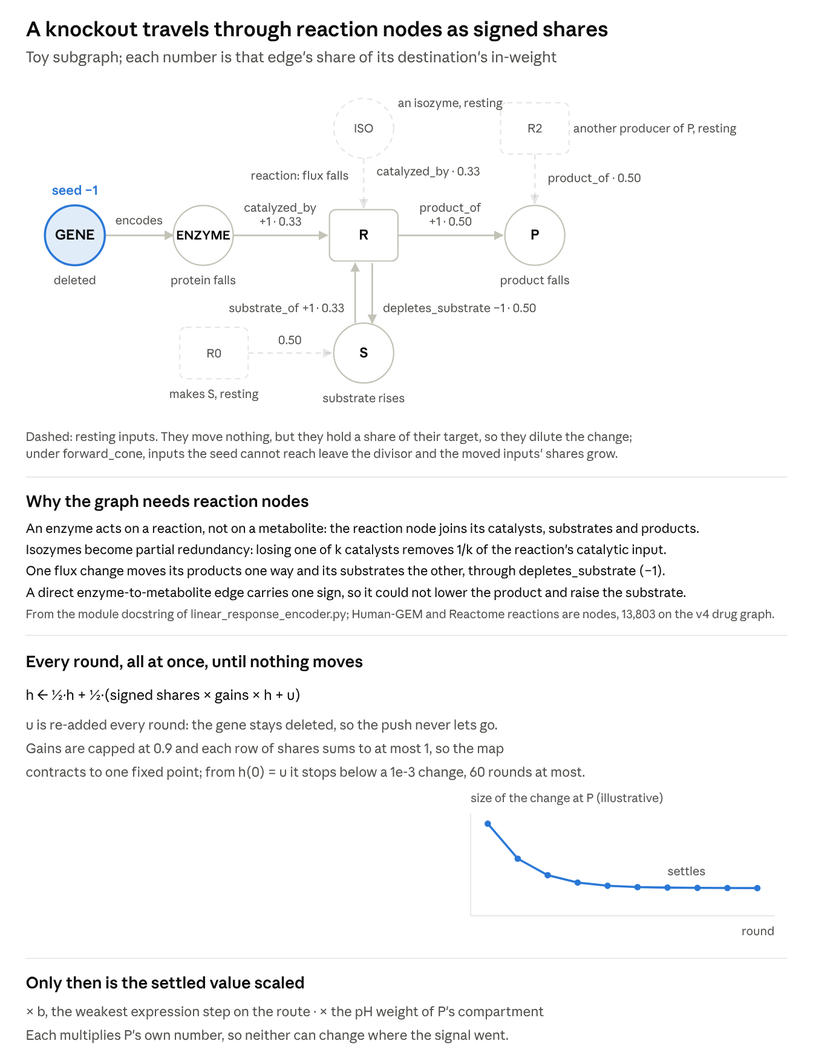
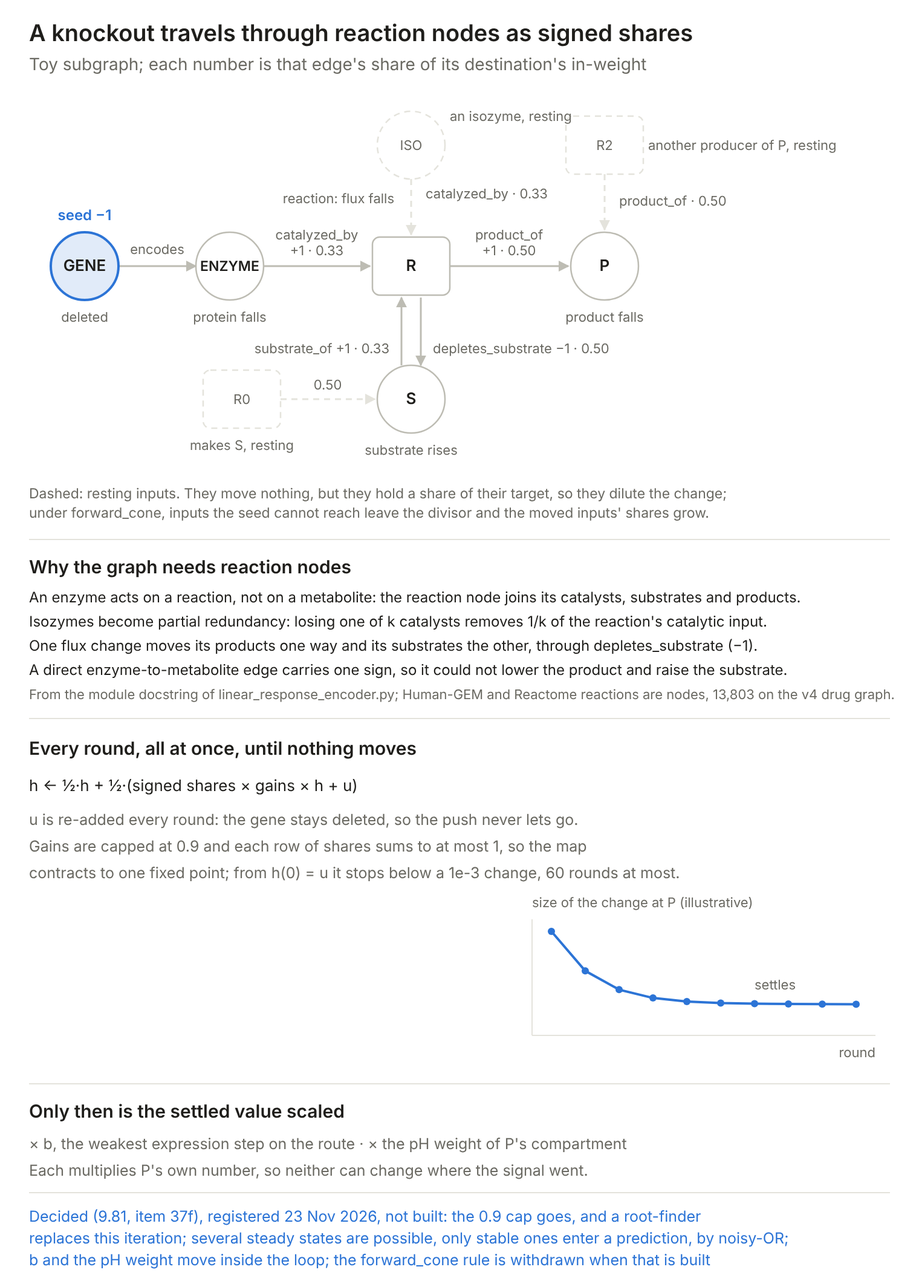
Refresh the study sheet's Markdown copy from revision 169, with all 25 diagrams re-rendered
The owner, 24 November 2026: "I still see damped fixed point in the figure on main remote". The copy on
main was last exported at revision 51 of 9 November, so every figure predated the decisions since,
including item 40's exposure ramp in the as-decided pipeline.

docs/study_sheet.md is now the doc's own Markdown export at revision 169, with each of the 25 widget
placeholders replaced by its PNG and caption. Each PNG is rendered from that widget's source as the doc
holds it (read through the docs connector, checked byte for byte against the tool results), with a light
palette standing in for the doc's theme. Three diagrams are new to the copy (05b encoder as decided,
12b effective parameters, 13b propagation channels as decided); two are renamed to say they are the
as-built versions (05_encoder_as_built, 13_propagation_channels_as_built). The as-built pipeline keeps
"Damped update to a fixed point" by design: it shows the code on main.

One change to the export's text, as the earlier copy made: the export writes the Cheng and Prusoff 1973
DOI inside angle brackets with raw parentheses, which the relative-link test reads as a dangling link,
so its parentheses are percent-encoded.

The registry's description of the copy said "19 diagrams"; it now says 25, and the README follows.

Claude-Session: https://claude.ai/code/session_01RNHwqTkjjENH7yo98idnBU

diff --git a/docs/study_sheet.md b/docs/study_sheet.md
@@ -1,12 +1,12 @@
 # Perturbation-symptom modules: study sheet
 
-The owner's study sheet, exported from Claude Docs (https://claude.ai/artifact/RzVm4LjdeHmzzdSyzJ5j65). The doc is the version that is kept current; this file is its Markdown copy, refreshed in place by exporting it again (last from revision 51, 9 November 2026; on 20 November 2026 the three lines naming the module-names page were changed in place to its path under `docs/generated/`, as revision 53 of the doc changed them). The text is the doc's own Markdown export; the 22 diagrams, which that export leaves out, are rendered as PNG images in [`study_sheet_figures/`](study_sheet_figures/), each followed by its caption. From 27 October to 7 November 2026 the copy was a dated record, an export of revision 36 with an HTML page and 12 figures, filed under the date of that export; the owner asked on 7 November 2026 that the date be removed from the file names, and git holds that version.
+The owner's study sheet, exported from Claude Docs (https://claude.ai/artifact/RzVm4LjdeHmzzdSyzJ5j65). The doc is the version that is kept current; this file is its Markdown copy, refreshed in place by exporting it again (last from revision 169, 24 November 2026). The text is the doc's own Markdown export; the 25 diagrams, which that export leaves out, are rendered as PNG images in [`study_sheet_figures/`](study_sheet_figures/), each followed by its caption. Each image is rendered from that diagram's own source in the doc, with a light palette that stands in for the doc's theme, so its colours can differ slightly from the doc while its text and shapes are the doc's. From 27 October to 7 November 2026 the copy was a dated record, an export of revision 36 with an HTML page and 12 figures, filed under the date of that export; the owner asked on 7 November 2026 that the date be removed from the file names, and git holds that version.
 
 Oct 25, 2026 · @Bryan Nova
 
 ## Start here
 
-The project propagates gene and drug perturbations through a signed physiology graph (about 50,000 nodes and 270,000 edges) to a fixed point, then scores the predicted symptoms against public labels; its purpose is the basis for a data-defined psychiatric nosology. On `main` at `f54e3e9` (25 October 2026) there are no open pull requests, work is pushed straight to `main`, one model is registered and **80 decisions wait on you** (`docs/status.md`).
+The project propagates gene and drug perturbations through a signed physiology graph (about 50,000 nodes and 270,000 edges) to a steady state (as built, the fixed point of a damped linear operator; as decided in amendment item 37f, the stable steady states of a saturating update), then scores the predicted symptoms against public labels; its purpose is the basis for a data-defined psychiatric nosology. Work is pushed straight to `main` with no pull requests, and one model is tested. What is current, among it the registered rules and the decisions waiting on you, is in `docs/status.md`.
 
 Of those 80, only a few gate any work. Rule on these first:
 
@@ -19,17 +19,17 @@ The cheapest experiment nobody has run is **R0**, the rate-invariance check: min
 
 ## The pipeline
 
-A perturbation enters as a signed seed, settles through one damped linear operator and is read out per symptom; only stage 4 holds learned propagation, and the labels meet the predictions only at scoring.
+A perturbation enters as a signed seed, settles, as built, through one damped linear operator (as decided in amendment item 37f, registered 23 November 2026 and not built, through a root-finder for the stable steady states of a saturating update) and is read out per symptom; only stage 4 holds learned propagation, and the labels meet the predictions only at scoring.
 
 ![registered pipeline, as built · 7 stages · from registered_rules.json and the rebuild chain; v5 graph of 5 Nov 2026, before decisions 9.112 and 9.117](study_sheet_figures/01_pipeline.png)
 
 *registered pipeline, as built · 7 stages · from registered_rules.json and the rebuild chain; v5 graph of 5 Nov 2026, before decisions 9.112 and 9.117*
 
-![registered pipeline, as decided · decisions 9.117 and 9.121 ruled 8 and 9 Nov 2026, not built: curated targets where ChEMBL has none, and the curated label route of 9.117 group (ii)](study_sheet_figures/01b_pipeline_as_decided.png)
+![registered pipeline, as decided · decisions 9.117 and 9.121 ruled 8 Nov 2026 (targets curated from DrugCentral, GtoPdb, labels and reviews where ChEMBL has none) and the encoder of decision 9.81 and amendment items 37e, 37f and 37g, registered 23 Nov 2026; none of it built](study_sheet_figures/01b_pipeline_as_decided.png)
 
-*registered pipeline, as decided · decisions 9.117 and 9.121 ruled 8 and 9 Nov 2026, not built: curated targets where ChEMBL has none, and the curated label route of 9.117 group (ii)*
+*registered pipeline, as decided · decisions 9.117 and 9.121 ruled 8 Nov 2026 (targets curated from DrugCentral, GtoPdb, labels and reviews where ChEMBL has none) and the encoder of decision 9.81 and amendment items 37e, 37f and 37g, registered 23 Nov 2026; none of it built*
 
-The nonlinearities switched on by default (bottleneck, pH weight) sit after the loop; the in-loop aggregators and edge gates are off, so none of them can change the route a signal takes, only its size at the end.
+The nonlinearities switched on by default (bottleneck, pH weight) sit after the loop; the in-loop aggregators and edge gates are off, so none of them can change the route a signal takes, only its size at the end. That describes the built encoder. As decided (item 37f, not built), saturation, the bottleneck and the pH ceiling sit inside the loop.
 
 ### How the model is fit and tested
 
@@ -49,17 +49,21 @@ The lockbox is touched once, after every seed and control has run; until the own
 
 *graph schema, as decided · solid: the v5 graph of 5 Nov 2026; dashed: decision 9.112, ruled 4 Nov 2026 and not built*
 
-A gene perturbation seeds its gene node (−1 for a loss or untyped allele, +1 for a hypermorph); a drug seeds its own node at +1 and reaches its targets through signed `targets` edges, which skip the divisor.
+A gene perturbation seeds its gene node (−1 for a loss or untyped allele, +1 for a hypermorph); a drug seeds its own node at +1 and reaches its targets through signed `targets` edges, which skip the divisor. That is as built. As decided in item 37 (not built), a drug's seed is split across its targets by occupancy (37h), and a drug the body makes seeds on the compound it already is (37m).
 
 ## Architecture
 
-The model is four learned transforms around one linear loop: input weights and relation gains feed the fixed point, a gated expansion reads it out and a noisy-OR head turns it into symptom probabilities. Everything that is not linear acts after the loop or in the head.
+As built, the model is four learned transforms around one linear loop: input weights and relation gains feed the fixed point, a gated expansion reads it out and a noisy-OR head turns it into symptom probabilities. Everything that is not linear acts after the loop or in the head. As decided (decision 9.81 and amendment items 37e, 37f and 37g, registered 23 November 2026, not built): soft saturation, a floor at −1, a headroom per node, the bottleneck and the pH ceiling move inside the loop; the 0.9 gain clamp goes; and a root-finder replaces the damped iteration, keeps only the stable steady states and combines them by noisy-OR. How several steady states are searched for is decision 9.138, open.
 
-![mechanistic_pathway_learning/models/linear_response_encoder.py on main at f54e3e9](study_sheet_figures/05_encoder.png)
+![encoder, as built · linear_response_encoder.py and forward_cone_divisor.py on main at e6ea5f5; before decision 9.81 and amendment item 37f](study_sheet_figures/05_encoder_as_built.png)
 
-*mechanistic_pathway_learning/models/linear_response_encoder.py on main at f54e3e9*
+*encoder, as built · linear_response_encoder.py and forward_cone_divisor.py on main at e6ea5f5; before decision 9.81 and amendment item 37f*
 
-Key: B perturbations, P seeds per perturbation, N nodes, R relations, Q cell classes, C propagation channels (Q × channels per class), D state channels, F node feature columns, M pathway modules, S symptoms. Under `forward_cone` each seed is propagated as its own column with its own divisor; that is exact only because everything inside the loop is linear in the input.
+![encoder, as decided · decision 9.81 and amendment items 37e, 37f and 37g, registered 23 Nov 2026, not built; the steady-state search is decision 9.138, open](study_sheet_figures/05b_encoder_as_decided.png)
+
+*encoder, as decided · decision 9.81 and amendment items 37e, 37f and 37g, registered 23 Nov 2026, not built; the steady-state search is decision 9.138, open*
+
+Key: B perturbations, P seeds per perturbation, N nodes, R relations, Q cell classes, C propagation channels (Q × channels per class), D state channels, F node feature columns, M pathway modules, S symptoms. Under `forward_cone` each seed is propagated as its own column with its own divisor; that is exact only because everything inside the loop is linear in the input. That holds as built. Under item 37f (not built) saturation sits inside the loop, and the forward\_cone rule is withdrawn in the commit that builds the root-finder.
 
 ![models/noisy_or_pathway_module_model.py and configs/registered_rules.json on main at f54e3e9](study_sheet_figures/06_noisy_or_head.png)
 
@@ -81,13 +85,13 @@ Neither arm can change the confirmatory verdict: the message-passing reading is 
 
 ### How the propagation works
 
-The block diagram above names the transforms; this one shows what they do to a signal. A knockout enters at one node, and every edge passes a signed share of its source to its target, over and over, until the whole field stops moving.
+The block diagram above names the transforms; this one shows what they do to a signal. A knockout enters at one node, and every edge passes a signed share of its source to its target, over and over, until the whole field stops moving. This is the built encoder; what decision 9.81 and item 37f change is at the foot of the diagram.
 
 ![linear_response_encoder.py and forward_cone_divisor.py on main; the toy graph and the convergence curve are illustrative, not measured](study_sheet_figures/08_propagation.png)
 
 *linear_response_encoder.py and forward_cone_divisor.py on main; the toy graph and the convergence curve are illustrative, not measured*
 
-The resting input is the part worth dwelling on. Under the old `total_in_degree` divisor it still took its share, so an input that never moves diluted the one that did. `forward_cone` counts only the edges the seed can reach, which is decision 9.16 and what PR #8 landed on 24 October.
+The resting input is the part worth dwelling on. Under the old `total_in_degree` divisor it still took its share, so an input that never moves diluted the one that did. `forward_cone` counts only the edges the seed can reach, which is decision 9.16 and what PR #8 landed on 22 October.
 
 ### How the modules work
 
@@ -133,9 +137,15 @@ Counting the defaults makes the model's shape plain: the physiology is almost pa
 
 Two things follow. The operator's 476 gains (28 relations × 17 channels) are each shared by every edge of their relation, which is the "one global ratio" problem of the adherence review: one elasticity per relation cannot raise one metabolite and lower another through the same relation pair. And the module supports are the only per-node parameters in the model, which sits oddly beside the design rule that parameters are "never per node, since a per-node parameter is memorisation that cannot transfer to a held-out gene". The held-out split is over perturbations rather than nodes, so a node's gate is still trained by every other perturbation that reaches it; I have not found a document that works that through, so treat it as a question to put rather than a fault to report.
 
+![effective parameters, as built with the decided changes in its key · counted from the code on main at e170c31f and the v5 graph of 5 Nov 2026; no fitted model; methods from the Fable pass of 17 Nov 2026](study_sheet_figures/12b_effective_parameters.png)
+
+*effective parameters, as built with the decided changes in its key · counted from the code on main at e170c31f and the v5 graph of 5 Nov 2026; no fitted model; methods from the Fable pass of 17 Nov 2026*
+
+The labels reach the encoder only through the module activations, so whatever the parameter values, the predictions can move in at most 19,927 independent directions of the 405,908 nominal parameters. The two counts a fit would give, the open gates and the learning coefficient, wait on a trained run, and they answer a different question from the bounds. The nominal count predates the reach rule switched on 24 November 2026 (decision 9.150, amendment item 39), which holds at 0 the supports of nodes fewer than two training seeds can reach (8 × 8,791 on the v5 training rows of fold 0); the bound of 19,927 does not depend on it, and the nominal count is recounted at the next measurement.
+
 ### What each quantity means
 
-Read top to bottom, this is the diagrams' data flow. Shapes use the key above; "arbitrary units" means the scale is set by the input magnitude and the learned weights, so only sign and ratios carry meaning.
+Read top to bottom, this is the diagrams' data flow. Shapes use the key above; "arbitrary units" means the scale is set by the input magnitude and the learned weights, so only sign and ratios carry meaning. The table describes the built encoder. Under item 37f (not built) the gains lose their 0.9 cap, and b and the pH weight act inside the loop.
 
 | Quantity | Meaning | In biological terms | Range or units |
 | --- | --- | --- | --- |
@@ -176,11 +186,11 @@ Each row gives the formula, what its symbols mean and the file on `main` that de
 
 | Quantity | Formula | Symbols | Defined in |
 | --- | --- | --- | --- |
-| Fixed point | h ← (1−d)·h + d·(Σ\_r g\_r·S\_r·h + u) | d damping 0.5, g\_r relation gain, S\_r signed adjacency, u sustained input | [linear\_response\_encoder.py](https://github.com/TimeDelta/perturbation-symptom-modules/blob/main/mechanistic_pathway_learning/models/linear_response_encoder.py) |
-| Contraction bound | \|g\_r\| ≤ 0.9, and each row of Σ\_r \|S\_r\| ≤ 1 | what guarantees one fixed point | [linear\_response\_encoder.py](https://github.com/TimeDelta/perturbation-symptom-modules/blob/main/mechanistic_pathway_learning/models/linear_response_encoder.py) |
-| Forward-cone divisor | row × (total ÷ cone divisor) | the cone divisor counts only in-edges the seed can reach | [forward\_cone\_divisor.py](https://github.com/TimeDelta/perturbation-symptom-modules/blob/main/mechanistic_pathway_learning/models/forward_cone_divisor.py) |
-| Limiting-step bottleneck | b = max over routes of min over nodes | per cell class, on the unsigned structure, applied after the loop (`class_bottleneck`) | [linear\_response\_encoder.py](https://github.com/TimeDelta/perturbation-symptom-modules/blob/main/mechanistic_pathway_learning/models/linear_response_encoder.py) |
-| Compartment pH weight | ΔpH = −log10(1 + s·δ), w = exp(−(ΔpH/width)²) | s sensitivity (never calibrated, so ≈ 1), δ proton deviation | [compartment\_ph.py](https://github.com/TimeDelta/perturbation-symptom-modules/blob/main/mechanistic_pathway_learning/graph/compartment_ph.py) |
+| Fixed point | h ← (1−d)·h + d·(Σ\_r g\_r·S\_r·h + u) | d damping 0.5, g\_r relation gain, S\_r signed adjacency, u sustained input; as built. Item 37f (not built) replaces this damped iteration with a root-finder and puts saturation inside the update | [linear\_response\_encoder.py](https://github.com/TimeDelta/perturbation-symptom-modules/blob/main/mechanistic_pathway_learning/models/linear_response_encoder.py) |
+| Contraction bound | \|g\_r\| ≤ 0.9, and each row of Σ\_r \|S\_r\| ≤ 1 | what guarantees one fixed point, as built. Item 37f (not built) removes the 0.9 clamp, so several steady states are possible; only stable ones enter a prediction, and their search is decision 9.138, open | [linear\_response\_encoder.py](https://github.com/TimeDelta/perturbation-symptom-modules/blob/main/mechanistic_pathway_learning/models/linear_response_encoder.py) |
+| Forward-cone divisor | row × (total ÷ cone divisor) | the cone divisor counts only in-edges the seed can reach; the registered normalisation rule as built, withdrawn in the commit that builds item 37f's root-finder | [forward\_cone\_divisor.py](https://github.com/TimeDelta/perturbation-symptom-modules/blob/main/mechanistic_pathway_learning/models/forward_cone_divisor.py) |
+| Limiting-step bottleneck | b = max over routes of min over nodes | per cell class, on the unsigned structure, applied after the loop (`class_bottleneck`), as built; item 37f (not built) moves it inside the loop | [linear\_response\_encoder.py](https://github.com/TimeDelta/perturbation-symptom-modules/blob/main/mechanistic_pathway_learning/models/linear_response_encoder.py) |
+| Compartment pH weight | ΔpH = −log10(1 + s·δ), w = exp(−(ΔpH/width)²) | s sensitivity (never calibrated, so ≈ 1), δ proton deviation; applied after the loop as built, inside it under item 37f (not built) | [compartment\_ph.py](https://github.com/TimeDelta/perturbation-symptom-modules/blob/main/mechanistic_pathway_learning/graph/compartment_ph.py) |
 | Module activation | a\_m = sigmoid(Σ\_n z\_mn·field\_n·r\_m + c\_m) | z support, r readout vector, c bias | [noisy\_or\_pathway\_module\_model.py](https://github.com/TimeDelta/perturbation-symptom-modules/blob/main/mechanistic_pathway_learning/models/noisy_or_pathway_module_model.py) |
 | Noisy-OR | P(s) = 1 − (1 − leak\_s)·Π\_m (1 − link\_ms·a\_m) | leak: causes outside every module; link: module-to-symptom probability | [noisy\_or\_pathway\_module\_model.py](https://github.com/TimeDelta/perturbation-symptom-modules/blob/main/mechanistic_pathway_learning/models/noisy_or_pathway_module_model.py) |
 | **Labelling propensity** | π(x,s) = sigmoid(logit(π₀(t,s)) + c·(z(x) − z₀)) | t perturbation type, s symptom, z log(1 + distinct PubMed ids), z₀ its median, c the one learned slope | [positive\_unlabelled\_likelihood.py](https://github.com/TimeDelta/perturbation-symptom-modules/blob/main/mechanistic_pathway_learning/models/positive_unlabelled_likelihood.py) |
@@ -195,11 +205,15 @@ A note on the word "time scale", which the encoder's docstring uses of the chann
 
 ### Propagation channels
 
-![propagation channels · linear_response_encoder.py and run_main_model.py defaults on main at e14b969; 17 classes as experiments/build_cell_class_weights.py writes them](study_sheet_figures/13_propagation_channels.png)
+![propagation channels, as built · linear_response_encoder.py and run_main_model.py defaults on main at e14b969; 17 classes as experiments/build_cell_class_weights.py writes them; before amendment item 37](study_sheet_figures/13_propagation_channels_as_built.png)
 
-*propagation channels · linear_response_encoder.py and run_main_model.py defaults on main at e14b969; 17 classes as experiments/build_cell_class_weights.py writes them*
+*propagation channels, as built · linear_response_encoder.py and run_main_model.py defaults on main at e14b969; 17 classes as experiments/build_cell_class_weights.py writes them; before amendment item 37*
 
-Under the limiting-step rule expression leaves the loop, so inside it the 17 lanes differ only in their learned gains. One lane's response reaches another only through the shared extracellular pool and the expansion W.
+![propagation channels, as decided · amendment items 37b, 37f, 37l and 37n, registered 23 Nov 2026, not built; the fuller regional structure is decision 9.136, open](study_sheet_figures/13b_propagation_channels_as_decided.png)
+
+*propagation channels, as decided · amendment items 37b, 37f, 37l and 37n, registered 23 Nov 2026, not built; the fuller regional structure is decision 9.136, open*
+
+As built, under the limiting-step rule expression leaves the loop, so inside it the 17 lanes differ only in their learned gains. One lane's response reaches another only through the shared extracellular pool and the expansion W. As decided and not built: item 37f moves the bottleneck inside the loop, and item 37b adds cell classes, so there are more than 17 lanes.
 
 ### The membrane potential, as built and as decided
 
@@ -211,18 +225,18 @@ Under the limiting-step rule expression leaves the loop, so inside it the 17 lan
 
 *membrane potential, as decided · decisions 9.112 and 9.113, ruled 4, 7 and 8 Nov 2026, not built; constants from the Fable reviews of those days*
 
-"Gradient" in these two diagrams is the transmembrane ion concentration gradient, not the gradient of the training loss. The pool shares in the decided version are the pump-clamped pool sensitivities, normalised over the three inside pools; the outside pools stay open until 9.112's last question is ruled.
+"Gradient" in these two diagrams is the transmembrane ion concentration gradient, not the gradient of the training loss. The pool shares in the decided version are the pump-clamped pool sensitivities, carried in millivolts like the conductance edges and not rescaled to sum to 1 (decision 9.129, ruled 12 November 2026); the outside pools take weight 0 at the steady-state readout (ruled 7 November 2026).
 
 ## The registered model on main
 
-One model is tested: the noisy-OR linear-response encoder, at one-sided 0.05, with no magnitude floor. Eleven rules in `configs/registered_rules.json` are asserted against the code by `tests/test_registration_matches_the_code.py`; five amendments follow the frozen 15 October baseline. The four that changed between 20 and 24 October are marked.
+One model is tested: the noisy-OR linear-response encoder, at one-sided 0.05, with no magnitude floor. Thirteen rules in `configs/registered_rules.json` are asserted against the code by `tests/test_registration_matches_the_code.py`; seven amendments (docs/status.md, generated 24 November 2026) follow the frozen 15 October baseline. The four that changed between 20 and 24 October are marked.
 
 | Rule | Value now | Was | Changed |
 | --- | --- | --- | --- |
 | `tested_models` | linear-response noisy-OR only | that plus message-passing noisy-OR | 22 Oct (9.77) |
 | `robustness_models` | message-passing noisy-OR (spends no alpha) | none | 22 Oct (9.77) |
 | `alpha_one_sided` | 0.05 | 0.025 per model | 22 Oct (9.78) |
-| `normalisation` | `forward_cone`: in-degree counted only over edges the seed can reach | `total_in_degree` | 24 Oct (9.16, PR #8) |
+| `normalisation` | `forward_cone`: in-degree counted only over edges the seed can reach | `total_in_degree` | 22 Oct (9.16, PR #8) |
 | `label_likelihood` | `positive_unlabelled`, every kept pair counted once | weighted cross-entropy (silent pair at 0.2) | 24 Oct (9.90, PR #17) |
 | `floor_rule` | none: paired interval on model minus best baseline | 0.05 fixed and others | 15 Oct |
 | `held_out_fraction` | 1/7 of genes and of drugs | — | — |
@@ -230,7 +244,7 @@ One model is tested: the noisy-OR linear-response encoder, at one-sided 0.05, wi
 | `minimum_positives_to_score` | 5 positives and 1 negative | — | — |
 | `validation_fold_rule` | `seed % 7` | "fold 0" | 15 Oct |
 
-The registered reason for keeping the linear encoder is that it alone has a closed-form steady state, so the sensitivity of a label to a sign-disputed edge can be read without a training run. Your words of 22 October: "Defer it to robustness. I don't want it constraining things because this is more about mechanistically identifiably predictive nosology".
+The registered reason for keeping the linear encoder is that it alone has a closed-form steady state, so the sensitivity of a label to a sign-disputed edge can be read without a training run. Item 37f's root-finder (registered 23 November 2026, not built) gives up that closed form; decision 9.81 records that changing the tested model goes through an amendment. Your words of 22 October: "Defer it to robustness. I don't want it constraining things because this is more about mechanistically identifiably predictive nosology".
 
 One registered piece does not act: the pH ceiling is inert because no trainer calls `calibrate_ph_sensitivity`, so the settled field there is of order 1e-11. Separately, decision 9.90's row described the weighted loss as the default until a dated correction on 25 October (`24438249`).
 
@@ -294,9 +308,9 @@ The Siletti cluster aggregate (294 MB) has a fetch line, but it points at a Drop
 
 Five ideas carry most of the recent decisions: the fixed point, why rates drop out of it, where linearity binds, forward-cone normalisation and the counted-once likelihood.
 
-### 1. The fixed point
+### 1. The fixed point, as built
 
-The linear encoder repeats one update until the state stops moving: damping d = 0.5, the input re-added every round, tolerance 1e-3, at most 60 rounds. Every relation gain satisfies |gain\_r| ≤ 0.9 and every row of the summed absolute adjacency sums to at most 1, so the map is a contraction and the fixed point is unique.
+As built, the linear encoder repeats one update until the state stops moving: damping d = 0.5, the input re-added every round, tolerance 1e-3, at most 60 rounds. Every relation gain satisfies |gain\_r| ≤ 0.9 and every row of the summed absolute adjacency sums to at most 1, so the map is a contraction and the fixed point is unique. As decided (amendment item 37f, registered 23 November 2026, not built): the 0.9 gain clamp goes; soft saturation, a floor at −1 and a headroom sit inside the loop; and a root-finder with implicit differentiation replaces the damped iteration, beside an unclamped iteration for readings at each round. Uniqueness is then no longer guaranteed: only stable steady states enter a prediction, several combine by noisy-OR, and how they are searched for is decision 9.138, open.
 
 ```latex
 h_{t+1} = (1-d)\,h_t + d\,\big(\textstyle\sum_r \mathrm{gain}_r S_r h_t + u\big)
@@ -322,7 +336,7 @@ The partition is by relation, not by node: a protein keeps its fast binding and 
 
 ### 3. Where linearity binds
 
-Eight cases need a nonlinearity; the in-loop aggregators stay safe only because each statistic is odd and positively homogeneous, and saturation breaks exactly that.
+Eight cases need a nonlinearity; the in-loop aggregators stay safe only because each statistic is odd and positively homogeneous, and saturation breaks exactly that. Item 37f (registered 23 November 2026, not built) puts soft saturation inside the loop all the same, with a floor at −1 for every node.
 
 | # | Case | Size or status | Evidence it needs a nonlinearity |
 | --- | --- | --- | --- |
@@ -331,13 +345,13 @@ Eight cases need a nonlinearity; the in-loop aggregators stay safe only because 
 | 3 | Complex members: all needed or any one | 542 conjunctions, 238 disjunctions, not told apart | **Needed once marked.** An all-members complex is a minimum and an any-member one a maximum; a weighted sum is neither. The message-passing encoder already uses `conjunction_aggregation = "minimum"`, and the review calls the gap "a live difference between the two registered encoders". The data step comes first: the graph does not yet mark which entities are conjunctions. |
 | 4 | Receptor adaptation | not represented anywhere | **Partly.** Desensitisation scales a receptor's gain by its own occupancy, a product of states. But a linear negative-feedback loop already gives partial adaptation, and integral feedback gives perfect adaptation: "integral control in some form is necessary for a robust implementation of perfect adaptation" ([Yi et al. 2000](https://doi.org/10.1073/pnas.97.9.4649)). Review section 11 calls adaptation "the largest unrepresented piece of pharmacology in the study". |
 | 5 | Knockout against inhibitor (no occupancy) | 154 of 222 drugs carry total input 1 | **Weak for propagation.** Occupancy C / (C + K) saturates in concentration, but each drug enters at one therapeutic concentration, so occupancy can be a per-drug input weight computed before the loop. The fault is in the input: 154 of 222 drugs enter at 1, the size of a complete knockout or full activation, whatever their dose. |
-| 6 | Compartment pH ceiling | registered but inert | **Conditional.** pH is the log of \[H+\], and the registered form ΔpH = −log10(1 + s × deviation) is nonlinear; item 22b exists because it broke evenness. It needs to be inside the loop only if pH feeds back on other nodes, such as lysosomal enzymes. At cytosolic H+ the settled field is of order 1e-11, so the case may be moot (inventory open question 3). |
-| 7 | Dosage asymmetry | every gene perturbation | **Strongest.** Loss saturates at zero activity and gain does not, while the linear response is odd by construction. Human genetics is not symmetric: according to PubMed, Collins et al. 2022 identify "2,987 haploinsufficient and 1,559 triplosensitive genes", 648 of them uniquely triplosensitive ([doi](https://doi.org/10.1016/j.cell.2022.06.036)), and MECP2 duplication overlaps Rett syndrome rather than mirroring it ([Ramocki et al. 2010](https://doi.org/10.1002/ajmg.a.33184)). |
-| 8 | Multistability, hysteresis, oscillation | excluded by the contraction bound | **Needed if the labels depend on it.** A linear system has one fixed point or a continuum and no isolated limit cycle, so bistable switches and the circadian clock cannot be represented. Clock edges exist in CollecTRI. Whether any label depends on these dynamics is unmeasured. |
+| 6 | Compartment pH ceiling | registered but inert | **Conditional.** pH is the log of \[H+\], and the registered form ΔpH = −log10(1 + s × deviation) is nonlinear; item 22b exists because it broke evenness. It needs to be inside the loop only if pH feeds back on other nodes, such as lysosomal enzymes. At cytosolic H+ the settled field is of order 1e-11, so the case may be moot (inventory open question 3). Ruled since: inside the loop (item 37f, part 6; not built). |
+| 7 | Dosage asymmetry | every gene perturbation | **Strongest.** Loss saturates at zero activity and gain does not, while the linear response is odd by construction. Item 37f registers a floor at −1 for every node (not built), which breaks the mirror on the loss side. Human genetics is not symmetric: according to PubMed, Collins et al. 2022 identify "2,987 haploinsufficient and 1,559 triplosensitive genes", 648 of them uniquely triplosensitive ([doi](https://doi.org/10.1016/j.cell.2022.06.036)), and MECP2 duplication overlaps Rett syndrome rather than mirroring it ([Ramocki et al. 2010](https://doi.org/10.1002/ajmg.a.33184)). |
+| 8 | Multistability, hysteresis, oscillation | excluded by the contraction bound as built; item 37f removes the gain clamp (not built) | **Needed if the labels depend on it.** A linear system has one fixed point or a continuum and no isolated limit cycle, so bistable switches and the circadian clock cannot be represented. That is the built encoder. As decided (item 37f, not built), a root-finder searches for several steady states, and the stable ones combine by noisy-OR. Clock edges exist in CollecTRI. Whether any label depends on these dynamics is unmeasured. |
 
 ### 4. Forward-cone normalisation
 
-Each edge is divided by its destination's in-degree over all relations, counting only edges whose source the seed can reach. The divisor is therefore per seed and computed inside the loop. Two combinations are refused rather than handled: the `softmax_mixture` aggregator and edge gates.
+Each edge is divided by its destination's in-degree over all relations, counting only edges whose source the seed can reach. The divisor is therefore per seed and computed inside the loop. This is the registered normalisation rule as built; it leaves the registered rules in the commit that builds item 37f's root-finder. Two combinations are refused rather than handled: the `softmax_mixture` aggregator and edge gates.
 
 ### 5. The counted-once positive-unlabelled likelihood
 

diff --git a/docs/file_index.md b/docs/file_index.md
@@ -1,8 +1,8 @@
 # Every file under docs/ (generated by experiments/generate_file_index.py — do not edit by hand)
 
-Generated by `experiments/generate_file_index.py` on 2026-11-24 at commit 64191b0-dirty from git ls-files docs, configs/documentation_registry.json, configs/moved_paths.json, the repository's Python and shell sources; do not edit by hand.
+Generated by `experiments/generate_file_index.py` on 2026-11-24 at commit 724d95e-dirty from git ls-files docs, configs/documentation_registry.json, configs/moved_paths.json, the repository's Python and shell sources; do not edit by hand.
 
-All 290 files git tracks under `docs/`, by kind. **This is the complete list; [docs/README.md](README.md) is the index of registered *documents* by topic**, and the register covers tracked Markdown only, so the files that are not Markdown appear here and nowhere else.
+All 293 files git tracks under `docs/`, by kind. **This is the complete list; [docs/README.md](README.md) is the index of registered *documents* by topic**, and the register covers tracked Markdown only, so the files that are not Markdown appear here and nowhere else.
 
 For a Markdown document the class is the register's, and says how far to trust it as a statement of the current state (`docs/documentation_process.md` defines them). For every other file the last column names the scripts and modules that mention its path. **That search is textual**: it finds a path written whole, in a default argument or a constant, and it does not find one assembled at run time, so an empty cell means no source names the path and not that nothing reads the file.
 
@@ -11,7 +11,7 @@ For a Markdown document the class is the register's, and says how far to trust i
 | Markdown documents | 215 |
 | Tables (CSV) | 18 |
 | Measurements and summaries (JSON) | 17 |
-| Figures (PNG) | 38 |
+| Figures (PNG) | 41 |
 | Bibliography | 1 |
 | Plain text | 1 |
 
@@ -29,7 +29,7 @@ One row per directory, with the files git tracks directly in it (docs/documentat
 | `docs/generated/mechanism_cards/b6_default_disease_cluster/` | 10 |
 | `docs/records/2026-10/` | 23 |
 | `docs/records/2026-11/` | 25 |
-| `docs/study_sheet_figures/` | 22 |
+| `docs/study_sheet_figures/` | 25 |
 
 The register holds 217 documents, of which 215 are under `docs/` and the rest are the repository's own `README.md` and `CLAUDE.md`. Tracked Markdown under `docs/` that the register does not name: 0, which is what tests/test_documentation_process.py requires.
 
@@ -298,7 +298,7 @@ The register holds 217 documents, of which 215 are under `docs/` and the rest ar
 | [generated/untrained_symptom_degeneracy.json](generated/untrained_symptom_degeneracy.json) | `experiments/label_review/untrained_symptom_degeneracy.py` |
 | [hpo_reference_publication_dates.json](hpo_reference_publication_dates.json) | `experiments/run_baselines.py`, `mechanistic_pathway_learning/evidence/assemble_evidence_table.py`, `mechanistic_pathway_learning/evidence/load_monogenic_phenotype_annotations.py` |
 
-## Figures (PNG) (38)
+## Figures (PNG) (41)
 
 | file | named by |
 |---|---|
@@ -323,7 +323,8 @@ The register holds 217 documents, of which 215 are under `docs/` and the rest ar
 | [study_sheet_figures/02_fit_and_test.png](study_sheet_figures/02_fit_and_test.png) |  |
 | [study_sheet_figures/03_graph_as_built.png](study_sheet_figures/03_graph_as_built.png) |  |
 | [study_sheet_figures/04_graph_as_decided.png](study_sheet_figures/04_graph_as_decided.png) |  |
-| [study_sheet_figures/05_encoder.png](study_sheet_figures/05_encoder.png) |  |
+| [study_sheet_figures/05_encoder_as_built.png](study_sheet_figures/05_encoder_as_built.png) |  |
+| [study_sheet_figures/05b_encoder_as_decided.png](study_sheet_figures/05b_encoder_as_decided.png) |  |
 | [study_sheet_figures/06_noisy_or_head.png](study_sheet_figures/06_noisy_or_head.png) |  |
 | [study_sheet_figures/07_robustness_arms.png](study_sheet_figures/07_robustness_arms.png) |  |
 | [study_sheet_figures/07b_robustness_arms_as_decided.png](study_sheet_figures/07b_robustness_arms_as_decided.png) |  |
@@ -333,7 +334,9 @@ The register holds 217 documents, of which 215 are under `docs/` and the rest ar
 | [study_sheet_figures/10_curated_modules.png](study_sheet_figures/10_curated_modules.png) |  |
 | [study_sheet_figures/11_learned_module_names.png](study_sheet_figures/11_learned_module_names.png) |  |
 | [study_sheet_figures/12_parameter_count.png](study_sheet_figures/12_parameter_count.png) |  |
-| [study_sheet_figures/13_propagation_channels.png](study_sheet_figures/13_propagation_channels.png) |  |
+| [study_sheet_figures/12b_effective_parameters.png](study_sheet_figures/12b_effective_parameters.png) |  |
+| [study_sheet_figures/13_propagation_channels_as_built.png](study_sheet_figures/13_propagation_channels_as_built.png) |  |
+| [study_sheet_figures/13b_propagation_channels_as_decided.png](study_sheet_figures/13b_propagation_channels_as_decided.png) |  |
 | [study_sheet_figures/14_membrane_potential_as_built.png](study_sheet_figures/14_membrane_potential_as_built.png) |  |
 | [study_sheet_figures/15_membrane_potential_as_decided.png](study_sheet_figures/15_membrane_potential_as_decided.png) |  |
 | [study_sheet_figures/16_timeline.png](study_sheet_figures/16_timeline.png) |  |

diff --git a/docs/README.md b/docs/README.md
@@ -1,6 +1,6 @@
 # Documentation (generated by experiments/generate_docs_index.py — do not edit by hand)
 
-Generated by `experiments/generate_docs_index.py` on 2026-11-24 at commit 64191b0-dirty from configs/documentation_registry.json, configs/moved_paths.json, configs/study_sheet_diagrams.json, each registered document's first lines; do not edit by hand.
+Generated by `experiments/generate_docs_index.py` on 2026-11-24 at commit 724d95e-dirty from configs/documentation_registry.json, configs/moved_paths.json, configs/study_sheet_diagrams.json, each registered document's first lines; do not edit by hand.
 
 This project builds a signed, typed physiology graph (genes and the proteins they encode, metabolites and reactions, signalling, transcription, electrical and drug-mechanism layers, brain cell classes) and models how a perturbation, an allele of a gene or a drug, propagates through it to psychiatric symptom constructs, so that the learned mechanisms can serve as the basis of a new psychiatric nosology. The [repository README](../README.md) is the overview; this page is the map of the documents.
 
@@ -101,7 +101,7 @@ A script that wrote the same page for several runs has its versions on one line.
 
 - [Data sources, versions and licenses](data_sources.md) (living).
 - [Gene and protein nodes: the split and the gene-to-protein mapping](gene_protein_split.md) (living).
-- [Perturbation-symptom modules: study sheet](study_sheet.md) (living): the owner's study sheet (architecture, quantities, equations, concepts, critique and the 19 diagrams), the Markdown copy of the Claude Docs doc, refreshed in place by exporting it again; figures in docs/study_sheet_figures.
+- [Perturbation-symptom modules: study sheet](study_sheet.md) (living): the owner's study sheet (architecture, quantities, equations, concepts, critique and the 25 diagrams), the Markdown copy of the Claude Docs doc, refreshed in place by exporting it again; figures in docs/study_sheet_figures.
 - [Physical constants for the Goldman-Hodgkin-Katz resting potential (source-verification pass, 12 October 2026)](membrane_potential_constants.md) (living).
 - [The cell state the model carries](cell_state_representation.md) (living).
 - [Item 21: the pinned Human-GEM against upstream's merged fixes and open issues](records/2026-11/item21_human_gem_sweep_2026-11-24.md) (record, recorded 2026-11-24): exploration-queue item 21: the pinned Human-GEM v2.0.1 against upstream 2.1.1 and its open issues, every changed reaction and metabolite classified, and proposed correction rows for three glutathione-peroxidase reactions; read on Fable.

diff --git a/docs/status.md b/docs/status.md
@@ -1,6 +1,6 @@
 # Status (generated by experiments/generate_status.py — do not edit by hand)
 
-Generated by `experiments/generate_status.py` on 2026-11-24 at commit 64191b0-dirty from data/releases/*/MANIFEST.json, configs/registered_rules.json, configs/documentation_registry.json, the git log; do not edit by hand.
+Generated by `experiments/generate_status.py` on 2026-11-24 at commit 1aa5972-dirty from data/releases/*/MANIFEST.json, configs/registered_rules.json, configs/documentation_registry.json, the git log; do not edit by hand.
 
 What is current in this repository, read from the release manifests, `configs/registered_rules.json`, the git history of the decision log and the document register. Nothing here describes a container, a session or a running job: that state is on a machine's disk (`bash scripts/resume_jobs.sh --status`), and a committed statement about it is stale the moment another machine reads it. The commit this page was generated at is in the stamp above; `git log -1` says where the code is now.
 
